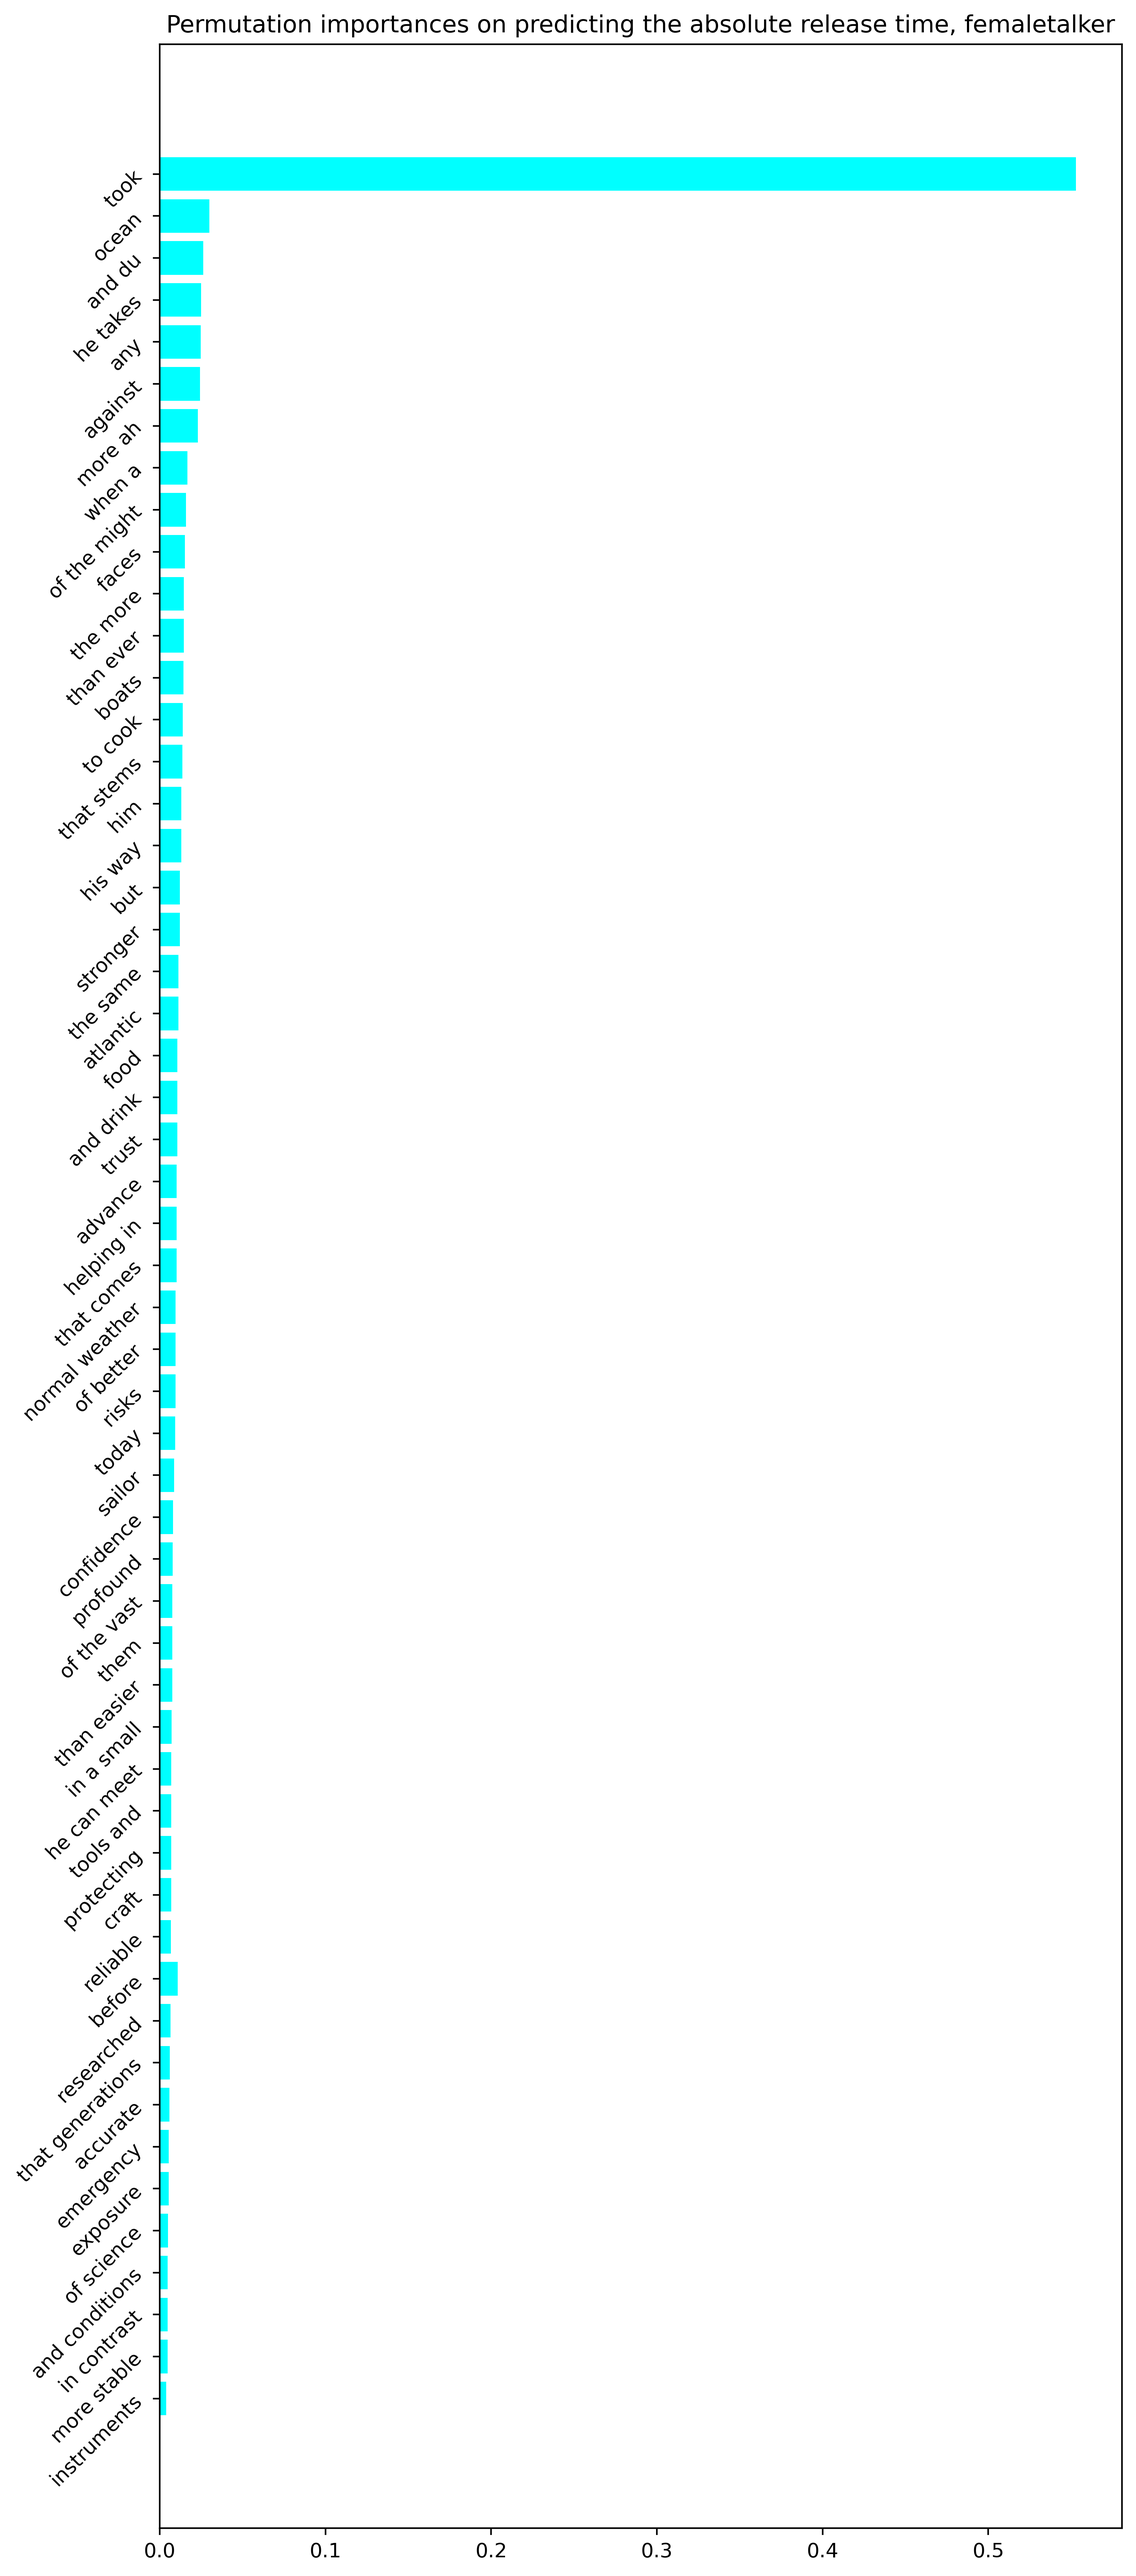
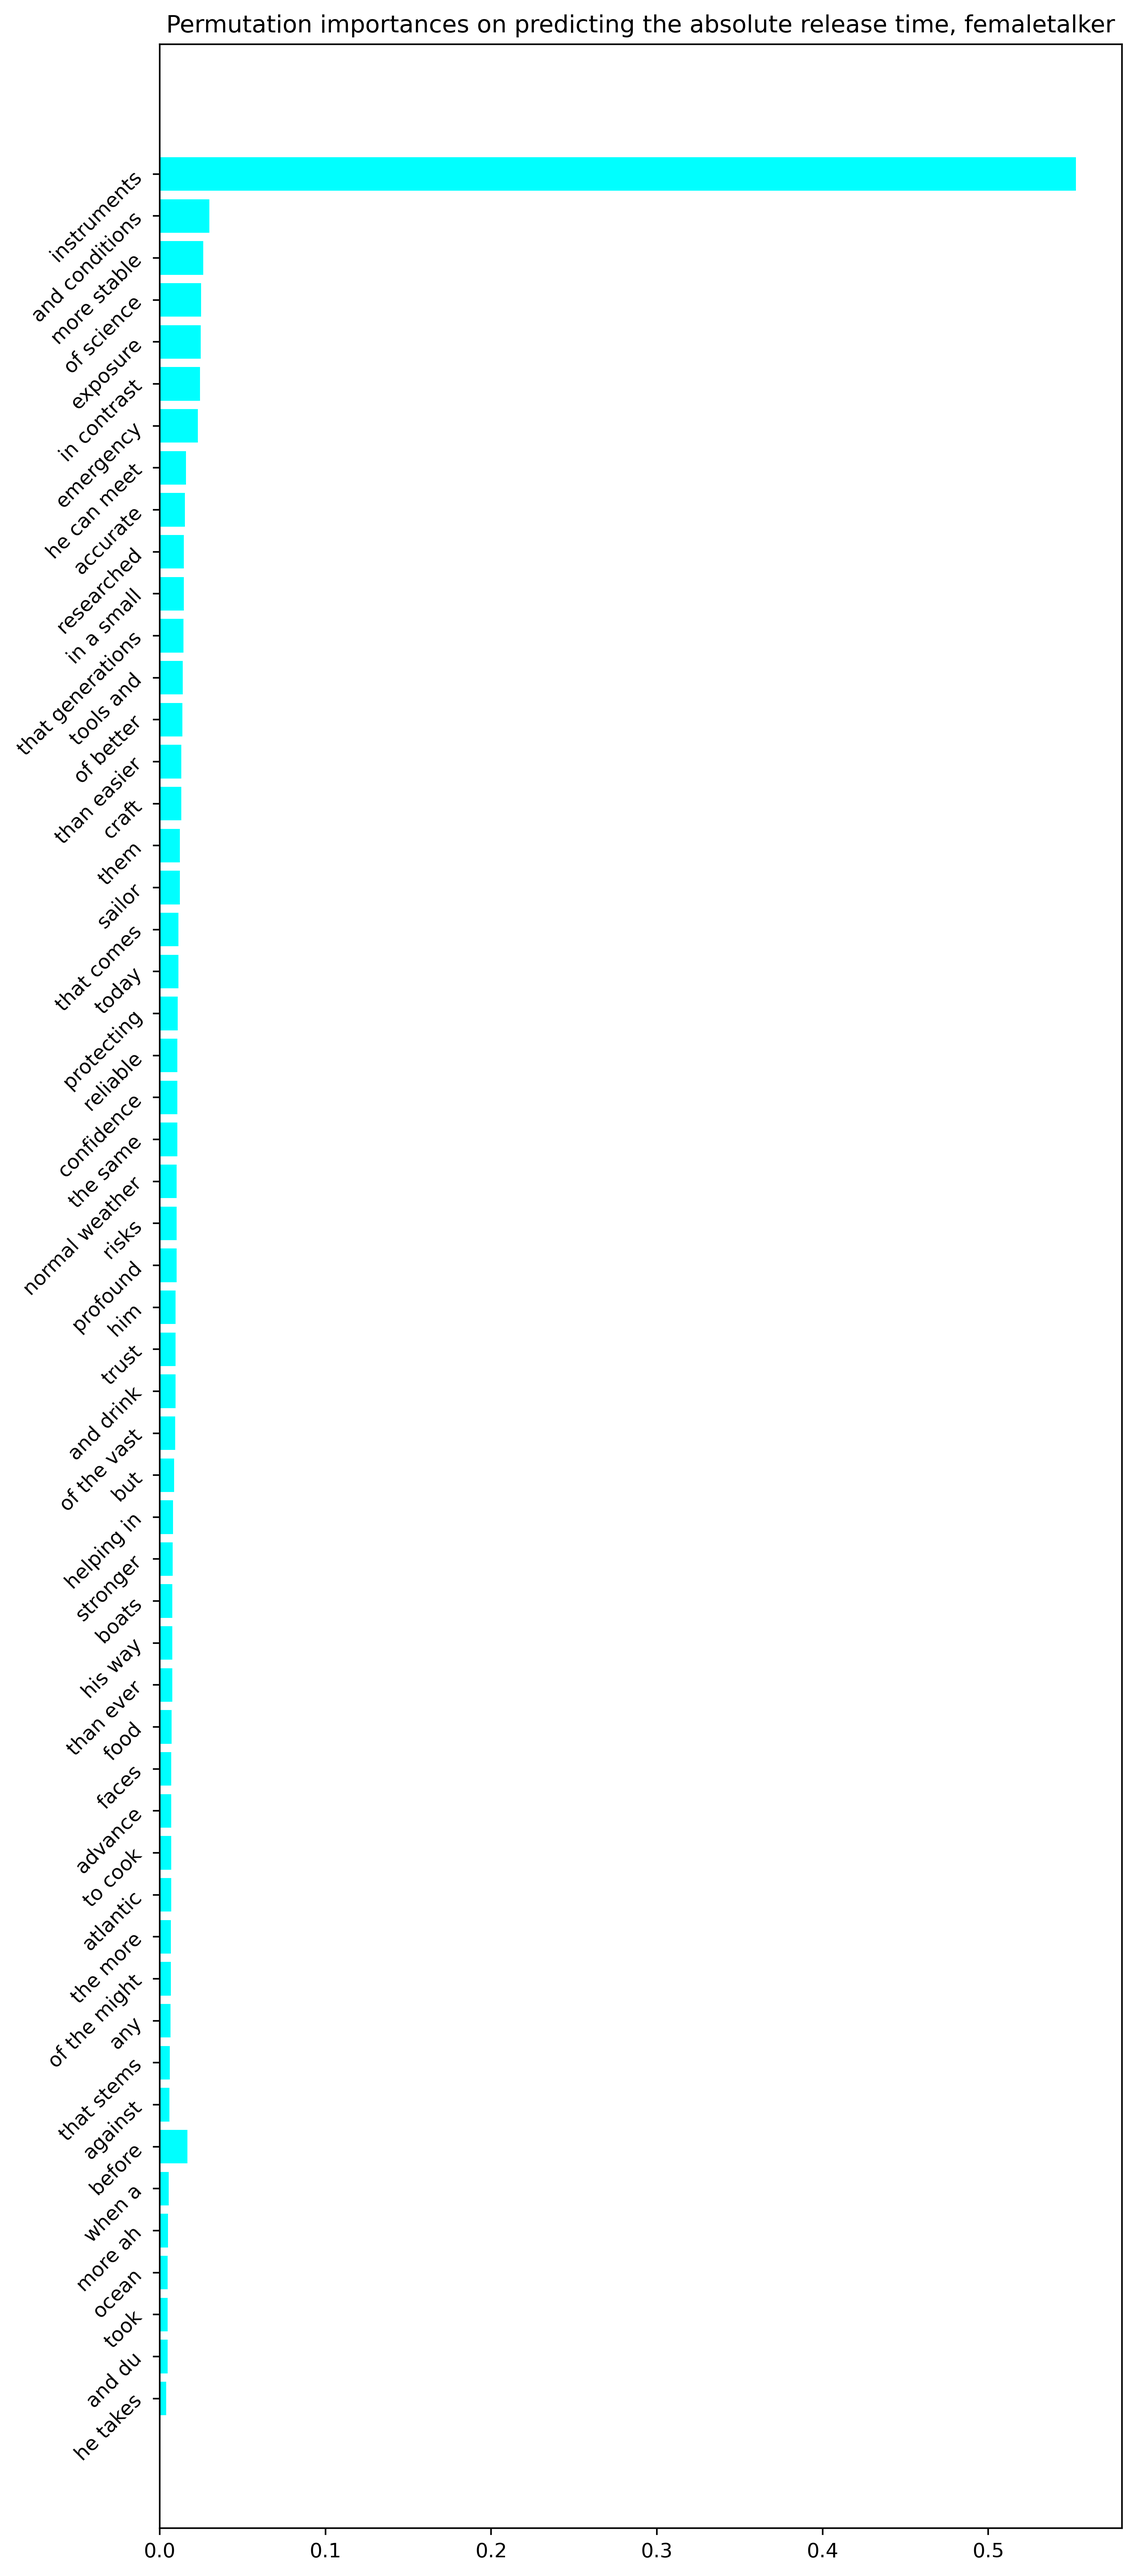
formatting

Changed region(s): [[0.031, 0.0623, 0.1241, 0.9655], [0.1552, 0.8098, 0.1862, 0.8409]]

diff --git a/models/reactiontimeforFAandtargmodel.py b/models/reactiontimeforFAandtargmodel.py
@@ -322,8 +322,6 @@ def runlgbreleasetimes(X, y, paramsinput=None, ferret_as_feature=False, one_ferr
     print(results)
     shap_values = shap.TreeExplainer(xg_reg).shap_values(X)
     fig, ax = plt.subplots(figsize=(15, 15))
-    # title kwargs still does nothing so need this workaround for summary plots
-    cmapname = "viridis"
 
     feature_importances = np.abs(shap_values).sum(axis=0)
     sorted_indices = np.argsort(feature_importances)
@@ -390,18 +388,23 @@ def runlgbreleasetimes(X, y, paramsinput=None, ferret_as_feature=False, one_ferr
     result = permutation_importance(xg_reg, X_test, y_test, n_repeats=100,
                                     random_state=123, n_jobs=2)
 
-    # sorted_idx = result.importances_mean.argsort()
     print('finished calculating permutation importance now')
     sorted_idx = (result.importances.mean(axis=1)).argsort()
-    # sorted_idx = result.importances.argsort() # sort from lowest to highest
+    if talker == 1:
+        feature_labels_words_permutation = female_word_labels[sorted_idx]
+    else:
+        feature_labels_words_permutation = male_word_labels[sorted_idx]
+
     fig, ax = plt.subplots(figsize=(8, 18))
-    test = result.importances[sorted_idx].mean(axis=1).T
-    ax.barh(feature_labels_words, result.importances[sorted_idx].mean(axis=1), color='cyan')
+    ax.barh(feature_labels_words_permutation, result.importances[sorted_idx].mean(axis=1), color='cyan')
     # save the permutation importance values
     #concatenate into one array
     #make a dataframed
-    permutation_importance_dataframe = pd.DataFrame(result.importances[sorted_idx].mean(axis=1), index=np.flip(feature_labels_words))
-    permutation_importance_array = np.concatenate((feature_labels_words, result.importances[sorted_idx].mean(axis=1)), axis=0)
+    permutation_importance_dataframe = pd.DataFrame(result.importances[sorted_idx].mean(axis=1), index=(feature_labels_words_permutation))
+    #concatenate the arrays horizontally
+    permutation_importance_array = np.concatenate(((feature_labels_words_permutation).reshape(-1,1), (sorted_idx).reshape(-1,1), result.importances[sorted_idx].mean(axis=1).reshape(-1,1)), axis=1)
+
+
 
     #save the dataframe
     np.save(fig_savedir / f'permutation_importance_dataframe_talker_{talker}.npy', permutation_importance_dataframe)
@@ -411,7 +414,6 @@ def runlgbreleasetimes(X, y, paramsinput=None, ferret_as_feature=False, one_ferr
         np.save(fig_savedir / 'permutation_importance_values.npy', result.importances[sorted_idx].mean(axis=1).T)
         np.save(fig_savedir / 'permutation_importance_labels.npy', feature_labels_words)
 
-    # rotate y -axis labels for better readability
     plt.yticks(rotation=45, ha='right')
     # make font size smaller for y tick labels
     plt.yticks(fontsize=10)
@@ -573,7 +575,7 @@ def runlgbreleasetimes(X, y, paramsinput=None, ferret_as_feature=False, one_ferr
         #                              fontsize=15)  # rotate x-axis labels for better readability
 
         data_perm_importance = (result.importances[sorted_idx].mean(axis=1).T)
-        labels = (feature_labels_words)
+        labels = (feature_labels_words_permutation)
 
         # Bar plot on the first axes
         ax_dict['D1'].barh(labels[0], data_perm_importance[-1], color=talker_color)
@@ -738,7 +740,6 @@ def runlgbreleasetimes(X, y, paramsinput=None, ferret_as_feature=False, one_ferr
 
         D = librosa.amplitude_to_db(np.abs(librosa.stft(worddict[int(top_words[0]) - 1].flatten())))
         cax = librosa.display.specshow(D, x_axis='time', y_axis='log', sr=24414.0625, ax=ax_dict['C'], cmap=cmap_color)
-        ax_dict['C'].legend()
         ax_dict['C'].set_title(f" instruments")
         ax_dict['C'].set_xlabel('Time (s)')
         ax_dict['C'].set_xticks(np.round(np.arange(0.1, len(worddict[int(top_words[0]) - 1]) / 24414.0625, 0.1), 2))
